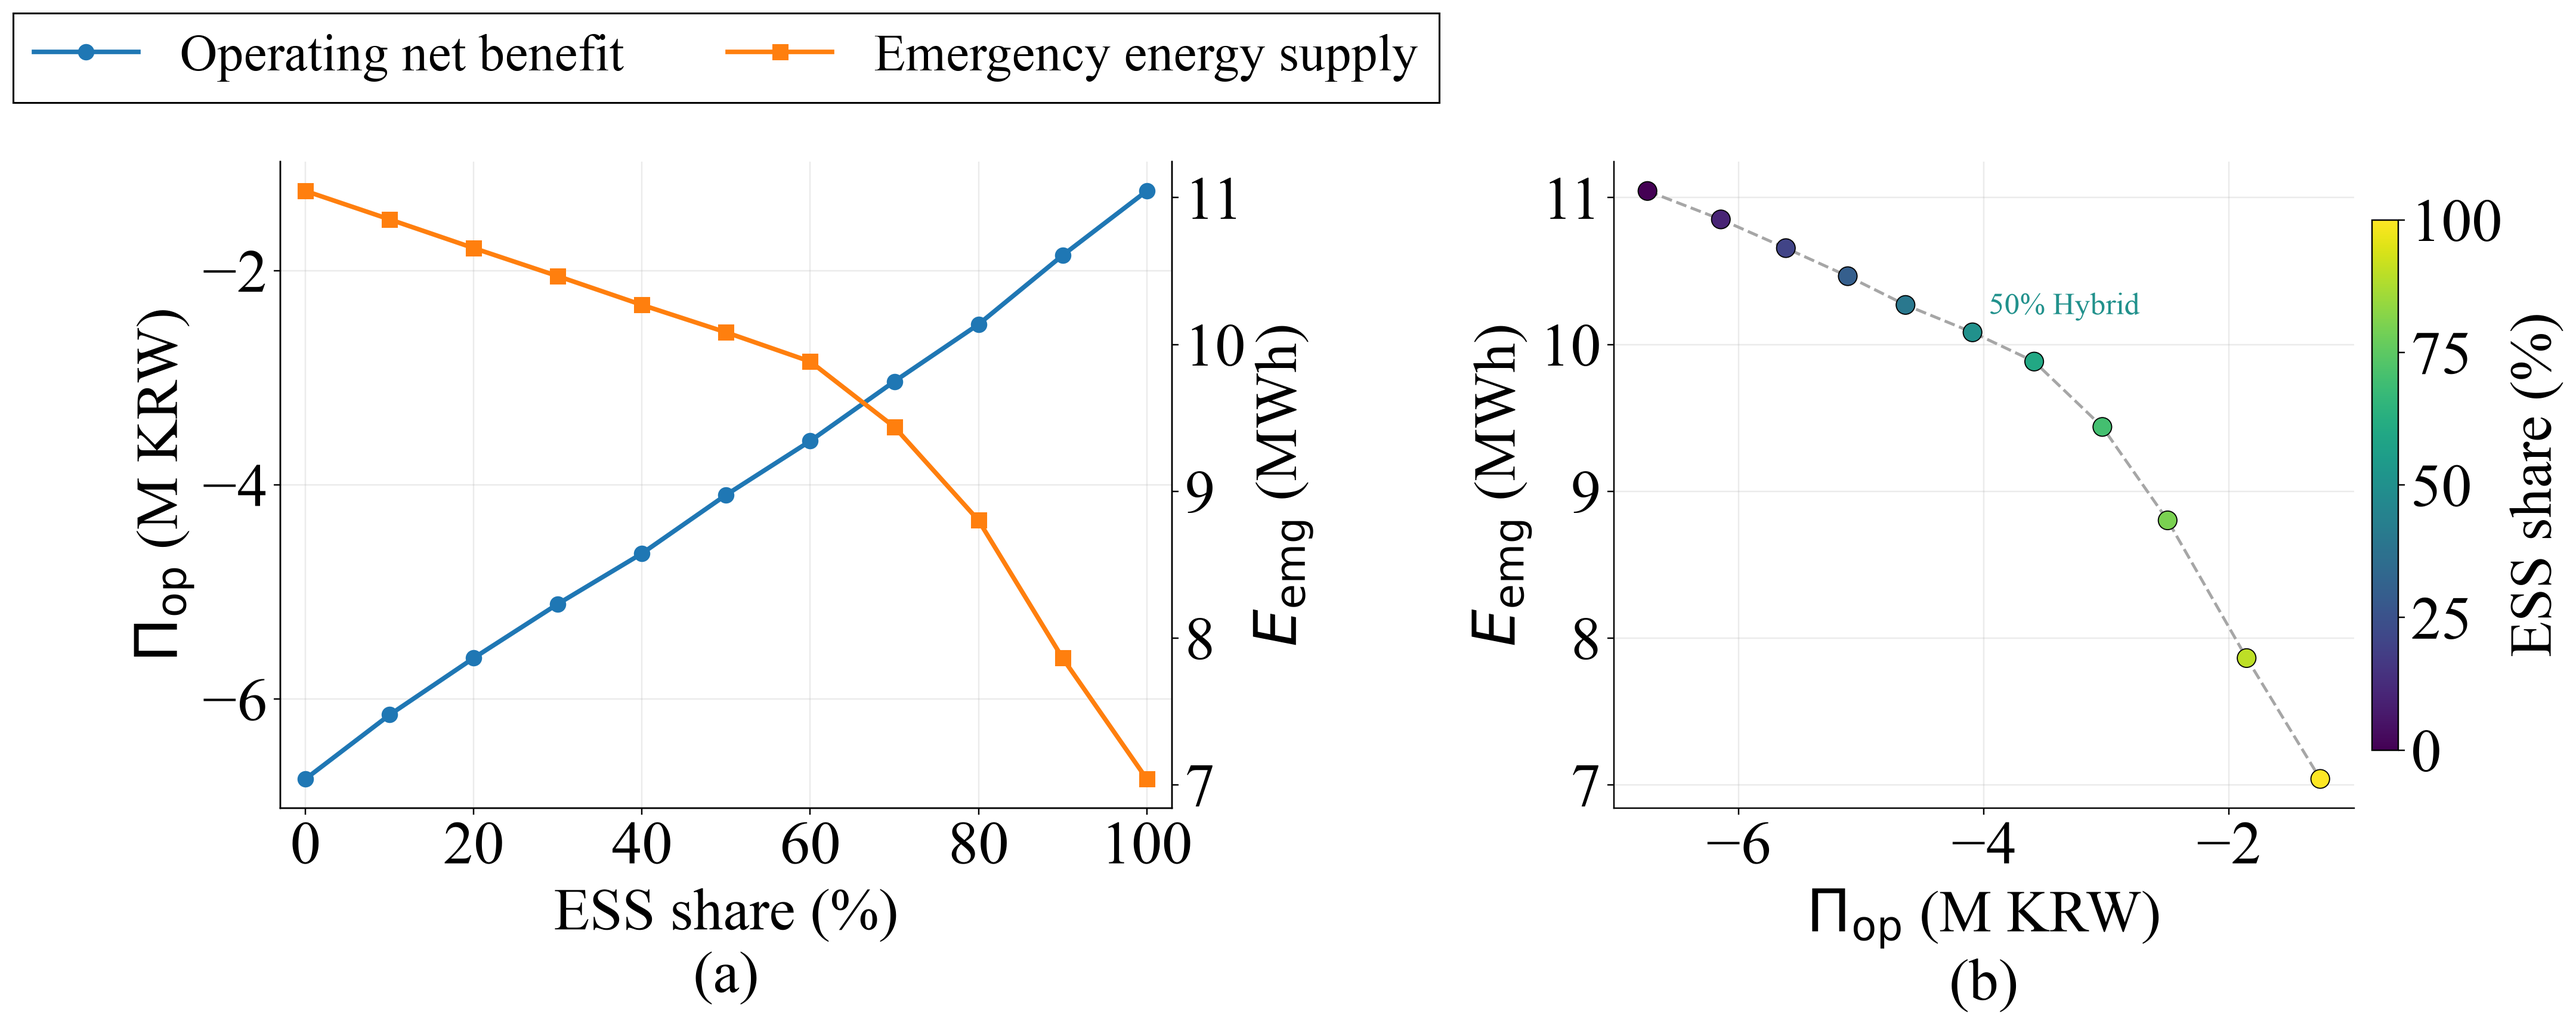
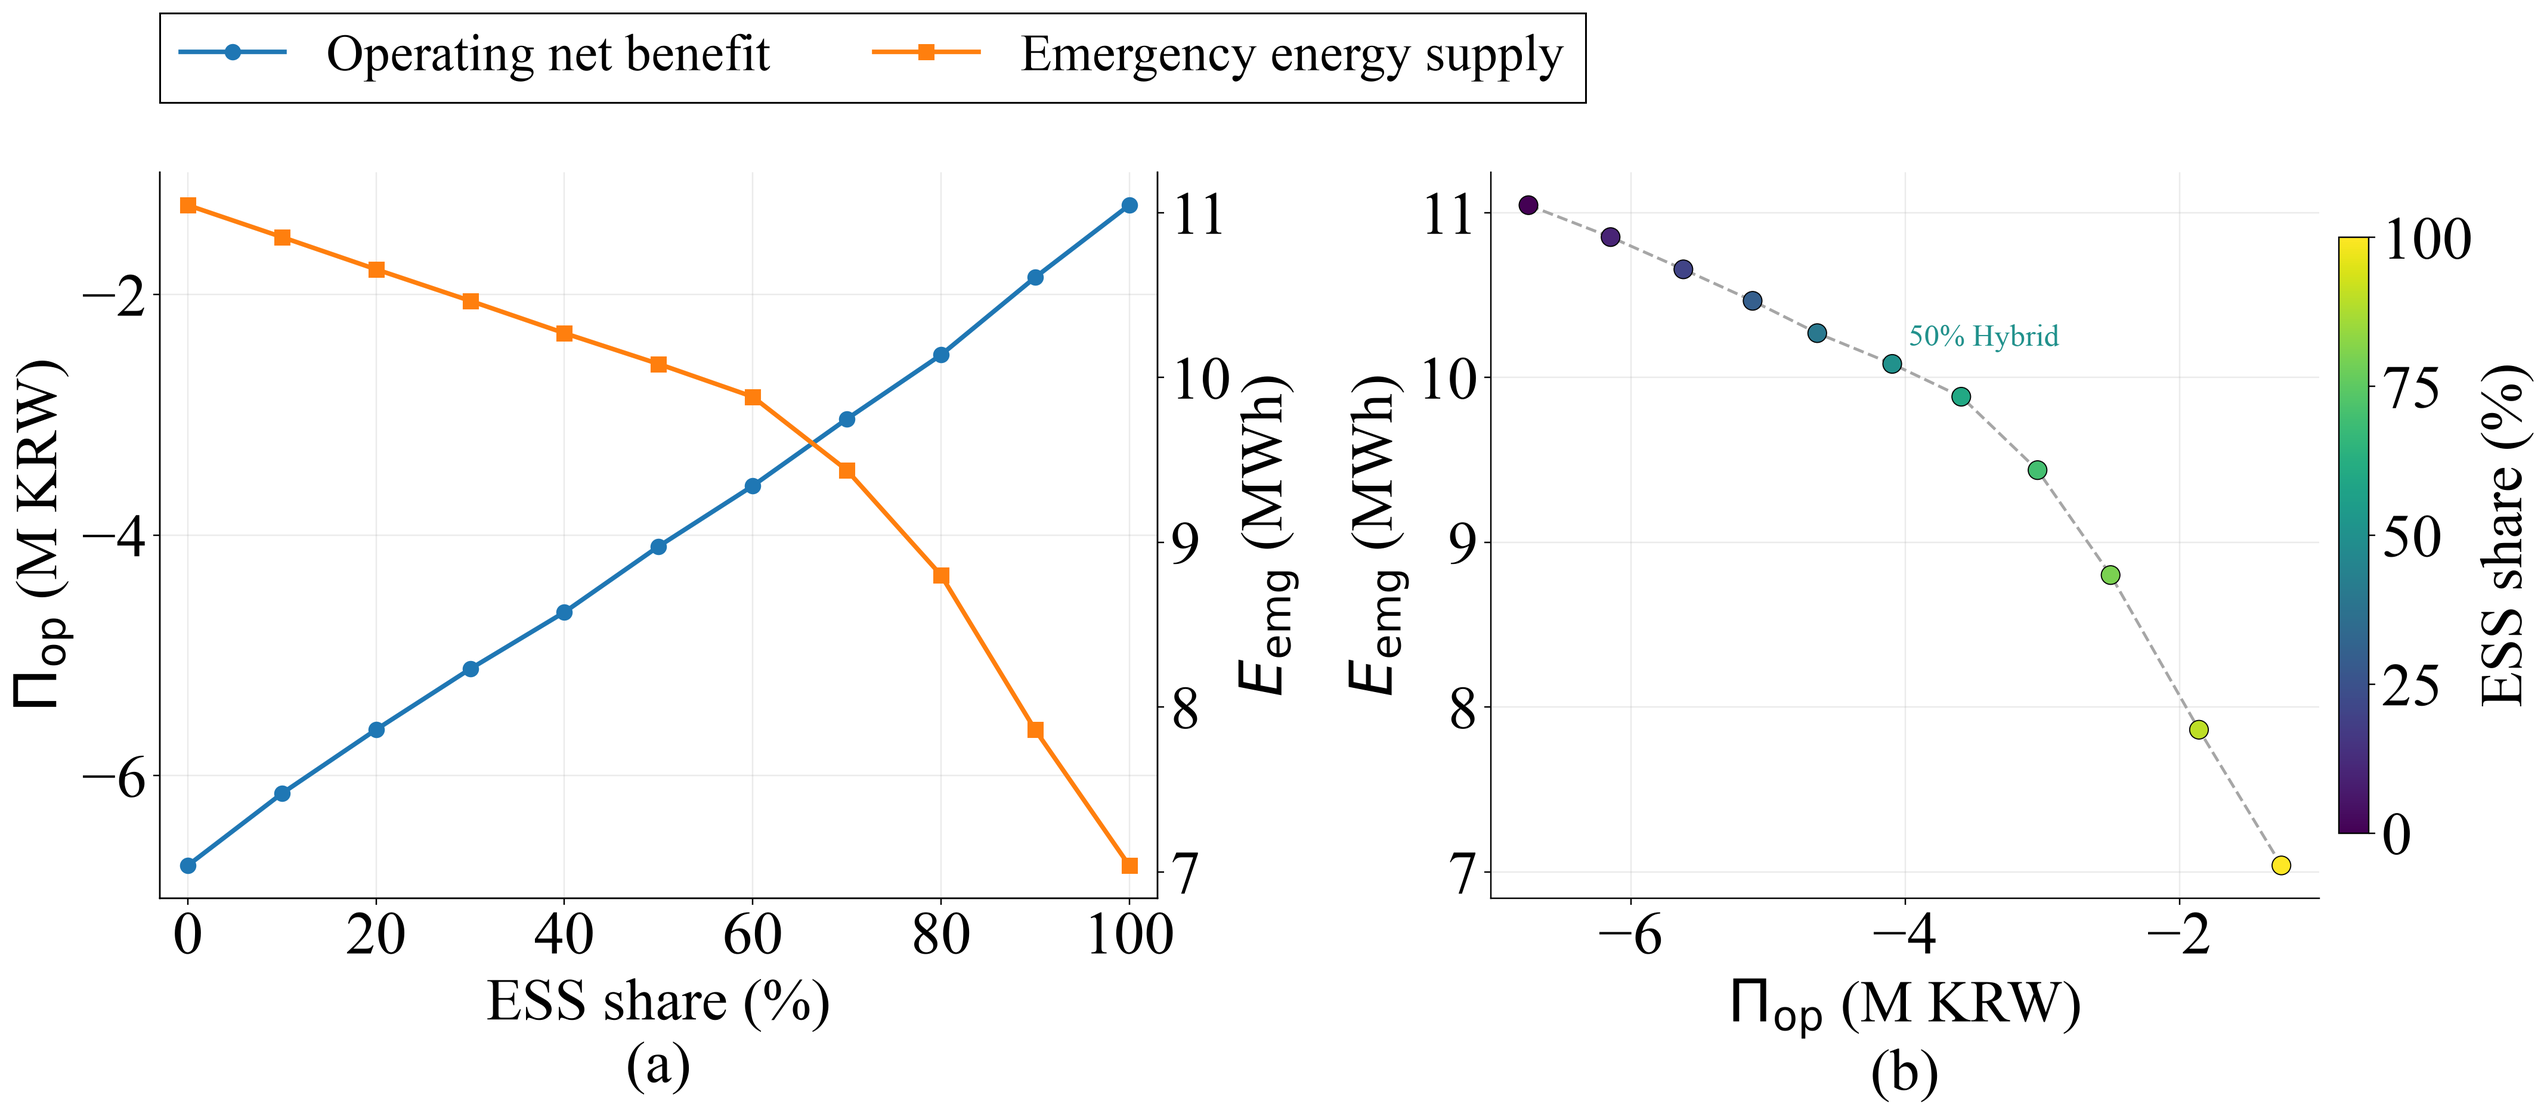
Use Figure 9_1 left margin for plots

diff --git a/asset_capacity_tradeoff.py b/asset_capacity_tradeoff.py
@@ -177,18 +177,6 @@ def plot_results(results: list[AllocationResult]) -> None:
     allocation_ax.grid(alpha=0.25)
     allocation_ax.spines["top"].set_visible(False)
     supply_ax.spines["top"].set_visible(False)
-    allocation_ax.legend(
-        handles=(operating_line, supply_line),
-        loc="upper center",
-        bbox_to_anchor=(0.5, 1.27),
-        ncol=2,
-        frameon=True,
-        fancybox=False,
-        edgecolor="black",
-        facecolor="white",
-        framealpha=1.0,
-    )
-
     tradeoff_ax.plot(operating, emergency, color="0.65", linestyle="--", linewidth=1.6)
     scatter = tradeoff_ax.scatter(
         operating,
@@ -218,7 +206,20 @@ def plot_results(results: list[AllocationResult]) -> None:
     tradeoff_ax.spines[["top", "right"]].set_visible(False)
     colorbar = fig.colorbar(scatter, ax=tradeoff_ax, pad=0.02, shrink=0.82)
     colorbar.set_label("ESS share (%)")
-    fig.tight_layout(pad=0.7, w_pad=0.8)
+    fig.tight_layout(rect=(0, 0, 1, 0.9), pad=0.7, w_pad=0.8)
+    fig.legend(
+        handles=(operating_line, supply_line),
+        loc="upper left",
+        bbox_to_anchor=(allocation_ax.get_position().x0, 0.985),
+        bbox_transform=fig.transFigure,
+        borderaxespad=0,
+        ncol=2,
+        frameon=True,
+        fancybox=False,
+        edgecolor="black",
+        facecolor="white",
+        framealpha=1.0,
+    )
     normalize_figure_text(fig)
     for suffix in ("png", "pdf"):
         fig.savefig(OUT / f"{FIGURE_STEM}.{suffix}", bbox_inches="tight")
